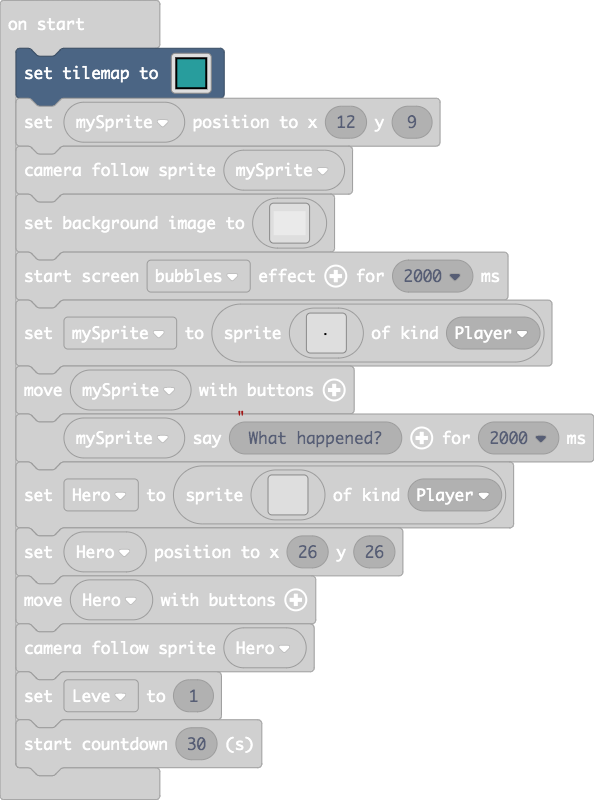
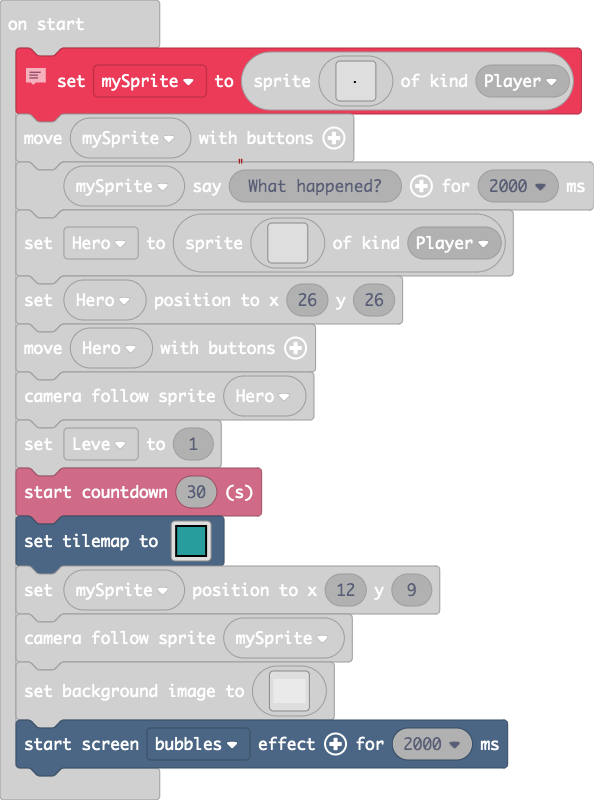
Update main.blocks, main.ts

diff --git a/main.ts b/main.ts
@@ -102,7 +102,52 @@ scene.onHitWall(SpriteKind.Player, function (sprite) {
     Hero.setPosition(26, 26)
 })
 let Hero: Sprite = null
-let mySprite: Sprite = null
+// I just moved a little of your code around and it
+// looks like it works to some degree now. Nice work
+// so far!!!!
+let mySprite = sprites.create(img`
+. . . . . . . . . . . . . . . . 
+. . . . . . . . . . . . . . . . 
+. . . . . . . . . . . . . . . . 
+. . . . . . . . . . . . . . . . 
+. . . . . . . . . . . . . . . . 
+. . . . . . . . . . . . . . . . 
+. . . . . . . . . . . . . . . . 
+. . . . . . . . . . . . . . . . 
+. . . . . . . f . . . . . . . . 
+. . . . . . . . . . . . . . . . 
+. . . . . . . . . . . . . . . . 
+. . . . . . . . . . . . . . . . 
+. . . . . . . . . . . . . . . . 
+. . . . . . . . . . . . . . . . 
+. . . . . . . . . . . . . . . . 
+. . . . . . . . . . . . . . . . 
+`, SpriteKind.Player)
+controller.moveSprite(mySprite)
+mySprite.say("What happened?", 2000)
+Hero = sprites.create(img`
+. . . . . . . . . . . . . . . . 
+. . . . . . . . . . . . . . . . 
+. . . . . . . . . . . . . . . . 
+. . . . . . . . . . . . . . . . 
+. . . . . . . . . . . . . . . . 
+. . . . . . . . . . . . . . . . 
+. . . . . . . . . . . . . . . . 
+. . . . . . . . . . . . . . . . 
+. . . . . . . . . . . . . . . . 
+. . . . . . . . . . . . . . . . 
+. . . . . . . . . . . . . . . . 
+. . . . . . . . . . . . . . . . 
+. . . . . . . . . . . . . . . . 
+. . . . . . . . . . . . . . . . 
+. . . . . . . . . . . . . . . . 
+. . . . . . . . . . . . . . . . 
+`, SpriteKind.Player)
+Hero.setPosition(26, 26)
+controller.moveSprite(Hero)
+scene.cameraFollowSprite(Hero)
+let Leve = 1
+info.startCountdown(30)
 tiles.setTilemap(tiles.createTilemap(
             hex`1000100005050505050505050505050505050505050707070707070707070707070707050507070707070707070707070707070505070707070707070707070707070705050707070707070707070707070707050507070707070707070707070707070505070707070707070707070707070705050707070707070707070707070707050507070707070707070707070707070505070707070707070707070707070705050707070707070707070707070707050507070707070707070707070707070505070707070707070707070707070705050707070707070707070707070707050507070707070707070707070707070505050505050505050505050505050505`,
             img`
@@ -251,49 +296,6 @@ scene.setBackgroundImage(img`
 1 1 1 1 1 1 1 1 1 1 1 1 1 1 1 1 1 1 1 1 1 1 1 1 1 1 1 1 1 1 1 1 1 1 1 1 1 1 1 1 1 1 1 1 1 1 1 1 1 1 1 1 1 1 1 1 1 1 1 1 1 1 1 1 1 1 1 1 1 1 1 1 1 1 1 1 1 1 1 1 1 1 1 1 1 1 1 1 1 1 1 1 1 1 1 1 1 1 1 1 1 1 1 1 1 1 1 1 1 1 1 1 1 1 1 1 1 1 1 1 1 1 1 1 1 1 1 1 1 1 1 1 1 1 1 1 1 1 1 1 1 1 1 1 1 1 1 1 1 1 1 1 1 1 1 1 1 1 1 1 
 `)
 effects.bubbles.startScreenEffect(2000)
-mySprite = sprites.create(img`
-. . . . . . . . . . . . . . . . 
-. . . . . . . . . . . . . . . . 
-. . . . . . . . . . . . . . . . 
-. . . . . . . . . . . . . . . . 
-. . . . . . . . . . . . . . . . 
-. . . . . . . . . . . . . . . . 
-. . . . . . . . . . . . . . . . 
-. . . . . . . . . . . . . . . . 
-. . . . . . . f . . . . . . . . 
-. . . . . . . . . . . . . . . . 
-. . . . . . . . . . . . . . . . 
-. . . . . . . . . . . . . . . . 
-. . . . . . . . . . . . . . . . 
-. . . . . . . . . . . . . . . . 
-. . . . . . . . . . . . . . . . 
-. . . . . . . . . . . . . . . . 
-`, SpriteKind.Player)
-controller.moveSprite(mySprite)
-mySprite.say("What happened?", 2000)
-Hero = sprites.create(img`
-. . . . . . . . . . . . . . . . 
-. . . . . . . . . . . . . . . . 
-. . . . . . . . . . . . . . . . 
-. . . . . . . . . . . . . . . . 
-. . . . . . . . . . . . . . . . 
-. . . . . . . . . . . . . . . . 
-. . . . . . . . . . . . . . . . 
-. . . . . . . . . . . . . . . . 
-. . . . . . . . . . . . . . . . 
-. . . . . . . . . . . . . . . . 
-. . . . . . . . . . . . . . . . 
-. . . . . . . . . . . . . . . . 
-. . . . . . . . . . . . . . . . 
-. . . . . . . . . . . . . . . . 
-. . . . . . . . . . . . . . . . 
-. . . . . . . . . . . . . . . . 
-`, SpriteKind.Player)
-Hero.setPosition(26, 26)
-controller.moveSprite(Hero)
-scene.cameraFollowSprite(Hero)
-let Leve = 1
-info.startCountdown(30)
 forever(function () {
     mySprite.setVelocity(0, 50)
 })
